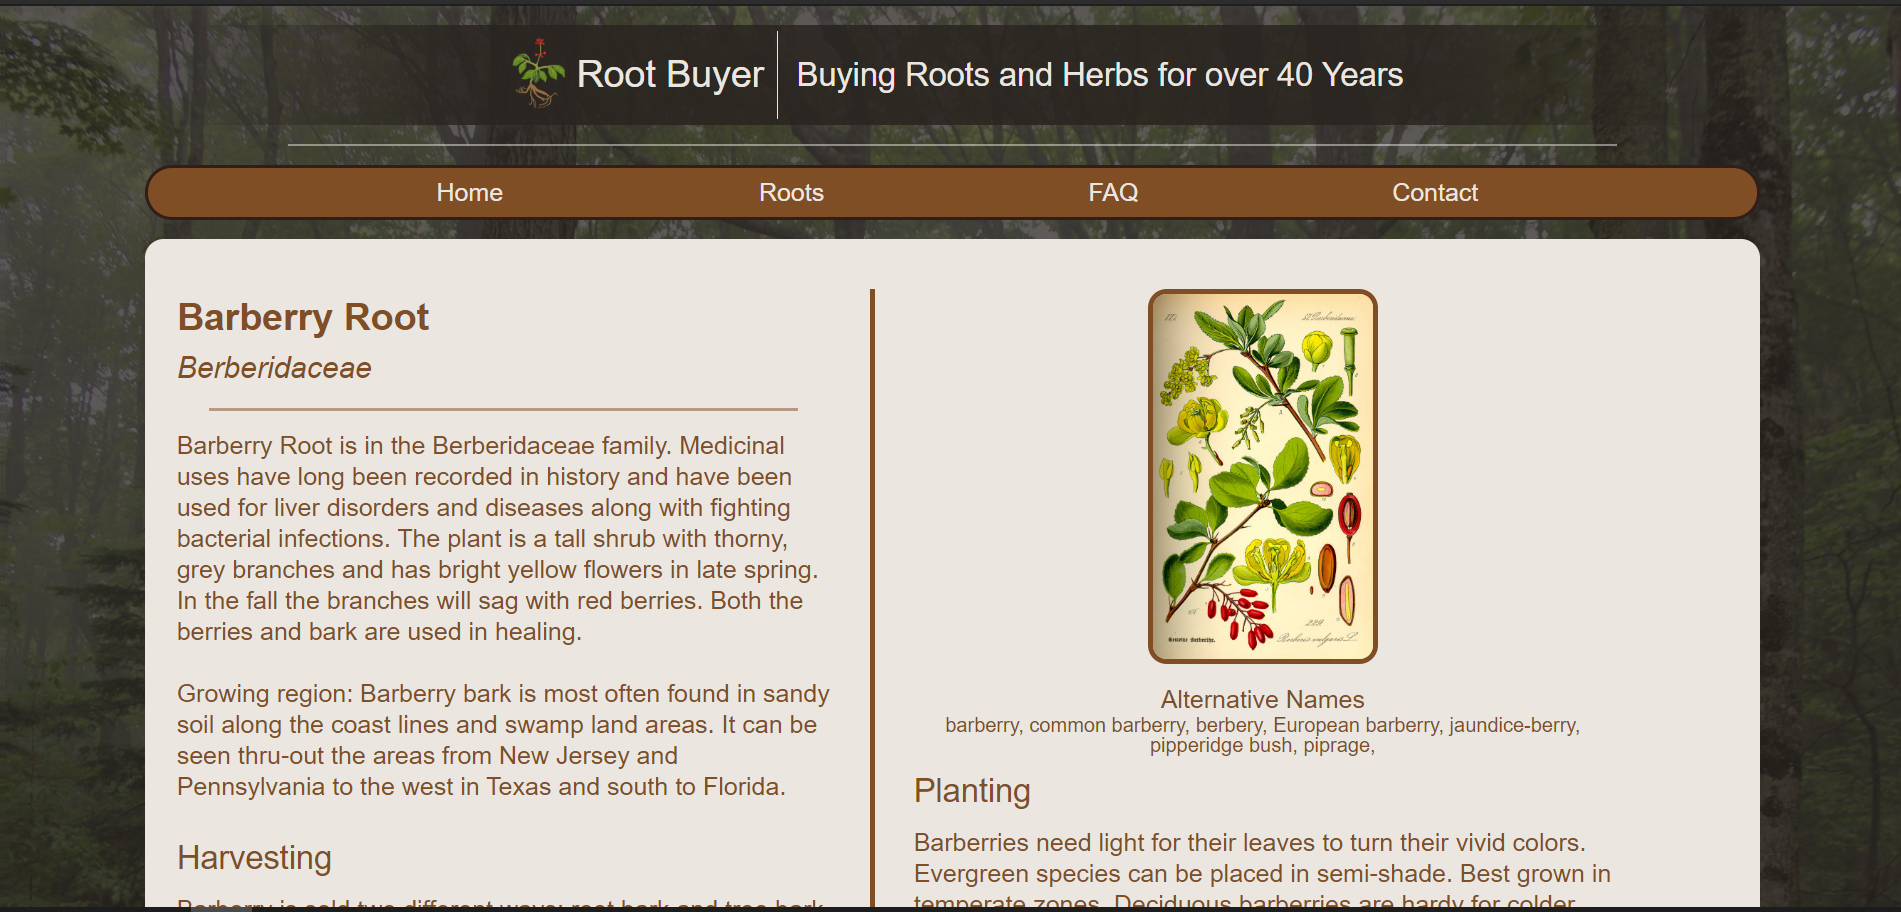
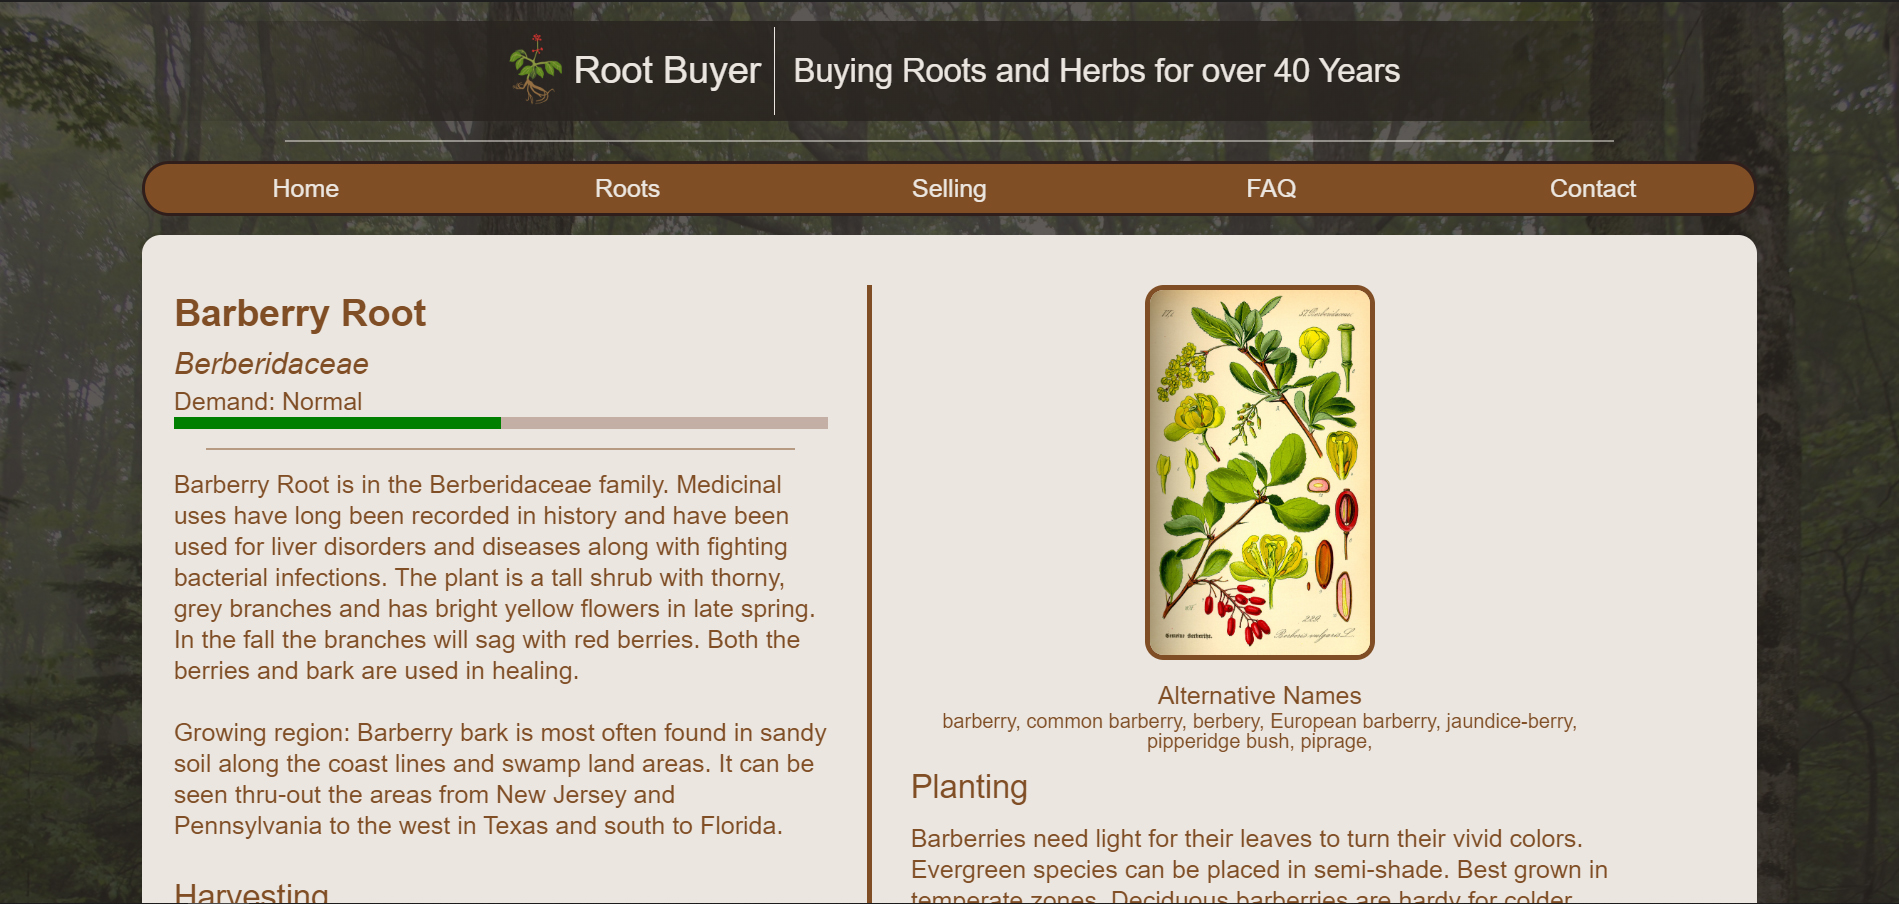
Updated demand bar to more clearly communicate the information, updated the screenshot to include it, and updated ReadMe (demand is now 1-3, not 0-2)

diff --git a/client/src/components/RootInfo/index.js b/client/src/components/RootInfo/index.js
@@ -16,10 +16,33 @@ class RootInfo extends Component {
     }
 
     render() {
-               
-        let demandPercent = (this.state.demand / 2) * 100 + "%";
+        let demandPercent;
+        let sliderStyle;
+
+        switch(this.state.demand) {
+            case 1:
+                demandPercent = "25%";
+                sliderStyle = {
+                    background: `linear-gradient(to right, red 0%, red ${demandPercent}, var(--mainBackgroundDark) ${demandPercent}, var(--mainBackgroundDark) 100%)`            
+                }
+                break;
+            case 2:
+                demandPercent = "50%";
+                sliderStyle = {
+                    background: `linear-gradient(to right, green 0%, green ${demandPercent}, var(--mainBackgroundDark) ${demandPercent}, var(--mainBackgroundDark) 100%)`            
+                }
+                break;
+            case 3: 
+                demandPercent = "100%";
+                
+                sliderStyle = {
+                    background: `linear-gradient(to right, green 0%, green ${demandPercent}, var(--mainBackgroundDark) ${demandPercent}, var(--mainBackgroundDark) 100%)`            
+                }
+                break;
+        }
+        // let demandPercent = this.state.demand !== 2 ? (this.state.demand / 3) * 100 + "%" : "50%";
         let demandDictionary = ["Poor", "Normal", "Great"];
- 
+
         console.log(demandPercent);
         if (this.state.name) {
             return (
@@ -27,13 +50,11 @@ class RootInfo extends Component {
                     <article>
                         <h1><strong>{this.state.name}</strong></h1>
                         <h3><em>{this.state.family}</em></h3>
-                        <p>Demand: {demandDictionary[this.state.demand]}</p>
+                        <p>Demand: {demandDictionary[(this.state.demand-1)]}</p>
 
                         {
                             this.state.demand ?                            
-                            <div className = "demand-slider" style = {{
-                                background: `linear-gradient(to right, var(--brown) 0%, var(--brown) ${demandPercent}, var(--mainBackgroundDark) ${demandPercent}, var(--mainBackgroundDark) 100%)`
-                            }}>
+                            <div className = "demand-slider" style = {sliderStyle}>
                                 
                             </div>
                             :

diff --git a/client/src/pages/Home/style.css b/client/src/pages/Home/style.css
@@ -2,12 +2,11 @@ body {
     background-image: url("https://www.nps.gov/piro/learn/nature/images/DeepForest_1.JPG");
     background-size: cover;
     background-attachment: fixed;
-    -webkit-overflow-scrolling: touch;
-    overflow-y: scroll;
 }
 
 #content {
-    overflow-y: auto;
+    overflow-y: scroll;
+    -webkit-overflow-scrolling: touch;
     position: fixed;
     top: 0;
     bottom: 0;

diff --git a/readme.md b/readme.md
@@ -24,7 +24,7 @@ RootBuyerRemastered is an attempt to "Remaster" the original RootBuyer.com. It c
 + Fast Loading (React.js)
 + Simple, Efficient, Fully Mobile-Responsive Layout (inspired by Handlebars.js)
 + Re-Design of "Harvesting Information" into FAQ
-+ Added Demand Bar to Plant Info Pages (0-2, Poor-Great) 
++ Added Demand Bar to Plant Info Pages (1-3, Poor-Great) 
 + Wonderful Ginseng Logo, hand-painted by Hunter Wilkins, Based on RootBuyer.com's Most Popular Root
 
 ### Disclaimers
